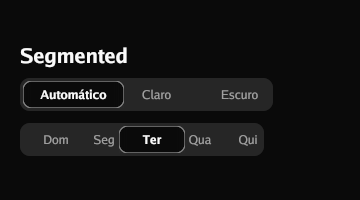
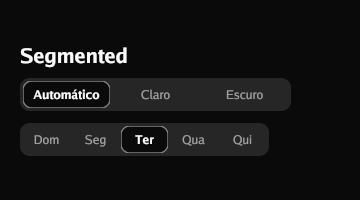
Segmented: a segment is as wide as its slot, not the slot and its padding; write the changelog and the upgrade notes
The chosen segment asked the button for the whole slot as its least width and the
button added its padding, so it ran past the end of the track; the slot was also
measured in the lighter weight. The Unreleased section of the changelog lists every
widget's changes and the upgrade guide the ones that draw differently.

diff --git a/widget/actions.go b/widget/actions.go
@@ -148,7 +148,9 @@ func (p SegmentedProps) layout(c ayra.Context, state *Segments) ayra.Dimensions 
 
 	t := c.Theme
 	size := p.Size
-	if size == Medium {
+	if size == Medium || size == Icon {
+		// A square segment is a button that holds one mark; a bar of words has no
+		// use for it, and its width is the widest word's.
 		size = Small
 	}
 
@@ -164,6 +166,10 @@ func (p SegmentedProps) layout(c ayra.Context, state *Segments) ayra.Dimensions 
 	for _, label := range p.Options {
 		props := ButtonProps{Label: label, Variant: Ghost, Size: size}
 		style := props.style(t)
+		// Measured as the chosen one is drawn, in the heavier weight: the widest
+		// word is wider in it, and a chosen segment sized for the lighter one ran
+		// out of its slot and past the end of the track.
+		style.Font.Weight = theme.SemiBold
 		measured := op.Record(inner.Ops)
 		text := buttonLabel(inner, label, style)
 		measured.Stop()
@@ -185,13 +191,19 @@ func (p SegmentedProps) layout(c ayra.Context, state *Segments) ayra.Dimensions 
 				Foreground: theme.Colour(t.Colours.Foreground),
 				Border:     theme.Colour(edge),
 				Radius:     theme.Pt(max(t.Metrics.Radius-1, 0)),
-				Font:       theme.Font{Weight: theme.SemiBold},
+				// The size is the button's own: a Font with only a weight in it is a
+				// font with no size, and the chosen label was drawn a size larger.
+				Font: theme.Font{Size: theme.Pt(ButtonProps{Size: size}.textSize(t)), Weight: theme.SemiBold},
 			}
 		} else {
 			style.Radius = theme.Pt(max(t.Metrics.Radius-1, 0))
 		}
+		// The least width is what the content is asked for, and the button's own
+		// padding is added to it: asking for the whole slot made a segment as wide
+		// as the slot and the padding over.
+		padding := ButtonProps{Size: size}.style(t).Padding
 		cell := inner
-		cell.Constraints.Min.X = widest
+		cell.Constraints.Min.X = max(widest-c.Dp(unit.Dp(padding.Left+padding.Right)), 0)
 		record := op.Record(inner.Ops)
 		dims := ButtonProps{ComponentProps: ComponentProps{Style: style}, Label: label, Variant: Ghost, Size: size}.Layout(cell, &state.group.buttons[index])
 		segments[index] = record.Stop()

diff --git a/widget/actions_test.go b/widget/actions_test.go
@@ -51,3 +51,29 @@ func TestTheChosenSegmentCanBeToldFromTheTrack(t *testing.T) {
 		}
 	}
 }
+
+// TestTheChosenSegmentStaysInsideTheTrack is the heavier weight of the chosen
+// label: the slot was measured in the lighter, so the chosen segment was wider than
+// its slot and ran past the end of the track.
+func TestTheChosenSegmentStaysInsideTheTrack(t *testing.T) {
+	for _, size := range []widget.Size{widget.Small, widget.Large} {
+		var state widget.Segments
+		state.Choose(1)
+		picture := drawn(t, 240, 80, theme.Light, func(c ayra.Context) ayra.Dimensions {
+			return widget.SegmentedProps{Options: []string{"Off", "default"}, Size: size}.Layout(c, &state)
+		})
+
+		// Past the track's right end, level with its middle, nothing is drawn.
+		c, _ := frame(t, theme.Light, 240)
+		var again widget.Segments
+		again.Choose(1)
+		track := widget.SegmentedProps{Options: []string{"Off", "default"}, Size: size}.Layout(c, &again).Size
+		for y := 0; y < 80; y++ {
+			for x := track.X + 2; x < 240; x++ {
+				if luminance(picture.RGBAAt(x, y)) < 254 {
+					t.Fatalf("size %v: something is drawn past the end of the track, %d wide, at %d,%d", size, track.X, x, y)
+				}
+			}
+		}
+	}
+}

diff --git a/CHANGELOG.md b/CHANGELOG.md
@@ -60,6 +60,121 @@
   the workflow fetches that tree, so the count is only real there: 66 files of the
   engine are still the original, and the ceiling still said 71.
 
+### Widgets
+
+What each widget does differently, found by drawing them under the Alpr.sh theme
+at 390 dp, in both schemes, and set beside Kyse. Pictures were regenerated for
+all of it.
+
+**Button, and everything drawn from one.** The area that answers a press is grown
+to 44 points on each side that falls short, evenly and outward, without moving the
+layout (`TouchArea`, `Clickable.Reach`, `TouchTarget`). A button on the keyboard
+focus takes the ring colour on its border and a 3 point ring outside, as Kyse's
+`focus-visible` does. Large is the body size and 41 tall (it was the heading size,
+48). A disabled button mixes with its ground (`fadeOver`) instead of halving the
+alpha, which the engine blends in linear light and left a disabled control four
+fifths as bright as an available one in the dark. A label is centred in a button
+given more height than its line.
+
+**Icon.** `IconProps` reports a baseline an eighth of its side above its bottom
+edge, so a row aligned by baseline sits the square on the word's line. The shade of
+a duotone icon is painted at the strength that lands a fifth of the way from the
+ground to the ink in the colours as written, as the browser does: the minus of a
+stepper was a grey square in the dark scheme.
+
+**Alert and toast.** A note's title is in the card foreground and its message in
+the muted one. A failure is drawn on the card with the destructive ink and border,
+which holds 4.8:1 in the light scheme and 6.5:1 in the dark for the 12 point
+message.
+
+**Progress, Skeleton.** An indeterminate bar moves (a third of the track, 1.4 s,
+eased); a skeleton pulses (half strength and back every two seconds). Both ask for
+the next frame only while drawn. `ayra.Context.ReduceMotion` and
+`shell.Config.ReduceMotion` make both stand still; the engine reads no platform
+setting, so the application supplies the answer.
+
+**Collapsible, accordion, tabs, breadcrumb, carousel.** A long summary wraps and
+the line is at least 44 points. Tabs scroll sideways when wider than the room, a
+tab chosen by the screen is brought into view, and each is 44 high. A breadcrumb
+longer than the room breaks into lines. A carousel's steps are arrows with
+`PreviousLabel` and `NextLabel` for a screen reader; they took 150 of a phone's
+358 points as words.
+
+**Checkbox, radio, switch.** A long label wraps beside the mark instead of ending in
+an ellipsis, with the mark level with the first line. A control with a label is 44
+points tall; one with none keeps its size and reaches a finger through
+`TouchArea`. The knob of an off switch is drawn (it was drawn in no ink, so an off
+switch was a grey pill). `CheckboxProps.Mixed` draws a dash for the box that
+stands for a group of which some are set.
+
+**Select.** The list is drawn over what follows it and takes the presses over it;
+it is at most eight rows tall and scrolls inside that. It is 33 points tall like a
+text field, takes Kyse's input fill and border, and draws the focus ring.
+`Select.Open` puts it up. A disabled select fades its caret with its text.
+
+**Date, period and date-time fields; calendar.** A day is written in the order of the
+theme's locale: `theme.Locale.DateLayout` ("02/01/2006" in pt-BR),
+`DatePickerProps.DateFormat`, and the period and the date-time fall back to it. A
+period with one end is open on the other side and is written "Até 31/12/2026" or
+"A partir de 01/01/2026" (`Locale.Until`, `Locale.Since`); `DateRange.Set` no longer
+swaps a missing end, and the days on the open side are drawn as one band. A
+`DateTime` chosen with a time showed 00:00 until its panel had been opened. The
+month picker cuts every name to three letters. A day is 44 points tall with its
+number in the middle. The fields take the fill and border of Kyse's input, are 33
+tall, draw the focus ring, and reach a finger.
+
+**Slider, rating, stepper, month arrows.** Their touch area is 44 points tall
+(the stars only vertically, since they touch).
+
+**Segmented.** A muted track with every segment as wide as the widest, 33 points
+tall, the chosen one on the page's colour with an edge and a semibold label, as
+Kyse's segmented control is. The chosen item was a grey a shade from the track.
+
+**Input, textarea, masked, password, input group, one-time code, field.** A text box
+takes the surface it sits on: no fill in the light scheme, 30% of the input colour
+mixed over the card in the dark one (`fieldFill`). The focus ring is Kyse's three
+points at half strength, in the destructive colour for a rejected field; a control in
+a group draws none of its own and the group draws it (`Focused`, `Invalid`). A field's
+label wraps and keeps its required mark. `InputAddonProps` is Kyse's addon. Disabled
+text uses `fadeOver`. A plate is written in capitals: `mask` takes hesape's `U` and
+`X` tokens and `brazil.Plate` is `UUU0X00` (the copy is the one in hesape v0.98.0).
+
+**Combobox, autocomplete, command palette.** The keys a suggestion list answers to
+reach it (arrows, escape, return); the list is drawn over what follows and keeps to
+the window; rows are 44 tall. A failed search is said under the field and marks it
+`Invalid`. The palette takes the keyboard when it opens.
+
+**File picker, file upload.** Rows are 44 points tall and the sentences are the
+application's (`FilePickerWords`). The upload zone is Kyse's dropzone: a dashed frame
+with a prompt and a hint (`Words.Hint`), the whole area opens the chooser, and a
+cancelled file says so (`Words.Cancelled`).
+
+**DataTable, table, list, pagination.** Drawn as Kyse v0.48 and v0.49 do: "1 row." and
+"{total} rows.", "{n} of {total} row(s) selected.", a card's title and empty cells,
+`DataColumn.Actions` as the foot of the card. The footer fits a phone, "/ page",
+"Previous" and "Next" are the application's words (`PaginationProps.PreviousLabel`,
+`NextLabel`), a sortable heading is aligned with its values, the heading box follows the
+selection, an error after the first answer is shown and cleared on retry, icon actions
+are 44 points. The text of a cell and of an item wraps instead of ending in an
+ellipsis.
+
+**Menu, popover, tooltip, dialog, drawer.** The window has an overlay layer
+(`ayra.Context.Overlay`, played back by `shell.Run` and `frame.Draw`): a menu, a
+popover or a tooltip is drawn over what follows, flips over its control when there is
+no room under it, is held to the window with a tall panel scrolling, and closes on a
+press outside, on escape and on the back key (`End` lines the right edges up). A modal
+dialog or drawer covers the whole window, under the bars, and keeps Tab inside
+(`key.FocusFilter.Trap`); a dialog stays 16 points off the edges of a phone and
+scrolls when taller than the window; the panel's corners are Kyse's rounded-xl.
+`Context.KeyboardOpen` says when the keyboard is up. The router answers where a
+control was drawn (`Source.Bounds`).
+
+### Fixed (engine)
+
+- `engine/io/input`: the router looked the focused control's bounds up through an
+  index a frame behind the list it pointed into, and panicked when a frame drew one
+  handler fewer or more. It looks the tag up.
+
 ## [v0.8.0](https://github.com/arandu-io/ayra/compare/v0.7.0...v0.8.0) - 2026-11-01
 
 ### Fixed

diff --git a/UPGRADE.md b/UPGRADE.md
@@ -116,6 +116,38 @@ is the corner of the room the screen was given.
 A modal dialog or drawer keeps Tab inside itself (`key.FocusFilter.Trap`), and the
 back key closes it, or the menu open over it first.
 
+## Unreleased -- what the form and display widgets draw differently
+
+Nothing stops compiling. A golden picture of yours that holds one of the widgets
+below changes, and `go test ./frame -update` regenerates it once you have looked.
+
+- **Rows that are a finger tall.** A checkbox, radio or switch with a label is at
+  least 44 points tall, a calendar's day is 44, a tab, a summary, a breadcrumb step
+  and a file row are 44. A screen laid out around the old heights is longer. A box with
+  no label keeps its size, and the area that answers is grown to 44 without moving
+  anything (`TouchArea`).
+- **Labels wrap.** The label of a checkbox, radio, switch or field, a summary, a table
+  cell and an item no longer ends in an ellipsis after one line.
+- **Dates follow the locale.** A date field writes `2026-11-02` unless the theme has a
+  locale. Set `theme.PortugueseBrazil()` (or a `Locale` with `DateLayout`) once and every
+  picker writes `02/11/2026`; `DatePickerProps.DateFormat` overrides it for one field.
+  A period with one end is written "Até 31/12/2026" in that locale.
+- **Fields take the surface they sit on.** The fill of a text field, a select and the
+  date fields is nothing in the light scheme and the input colour mixed over the card in
+  the dark one, and the border is the input colour. A field inside a card is no longer a
+  grey box on a white one.
+- **Overlays are in the window's layer.** A menu, a popover, a tooltip and a suggestion
+  list are drawn over what follows them and flip over the control when there is no room.
+  A screen that kept a gap under such a control for the panel (a spacer of the list's
+  height) can delete it. A dialog or drawer covers the whole window; a screen that
+  drew the application bar over a modal cannot any more.
+- **The shade of an icon.** The lighter half of a duotone icon is painted at the strength
+  the browser shows, not at a fifth of the alpha: lighter in the light scheme and much
+  fainter in the dark one.
+- **Segmented** is Kyse's bar: a muted track with equal segments and the chosen one raised.
+  Code that styled `buttongroup` parts to restyle a segmented control styles `segmented`
+  now.
+
 ## v0.8.0 -- the keyboard is the window's, not the application's
 
 An application that opened its own window loop to keep a field above the keyboard
